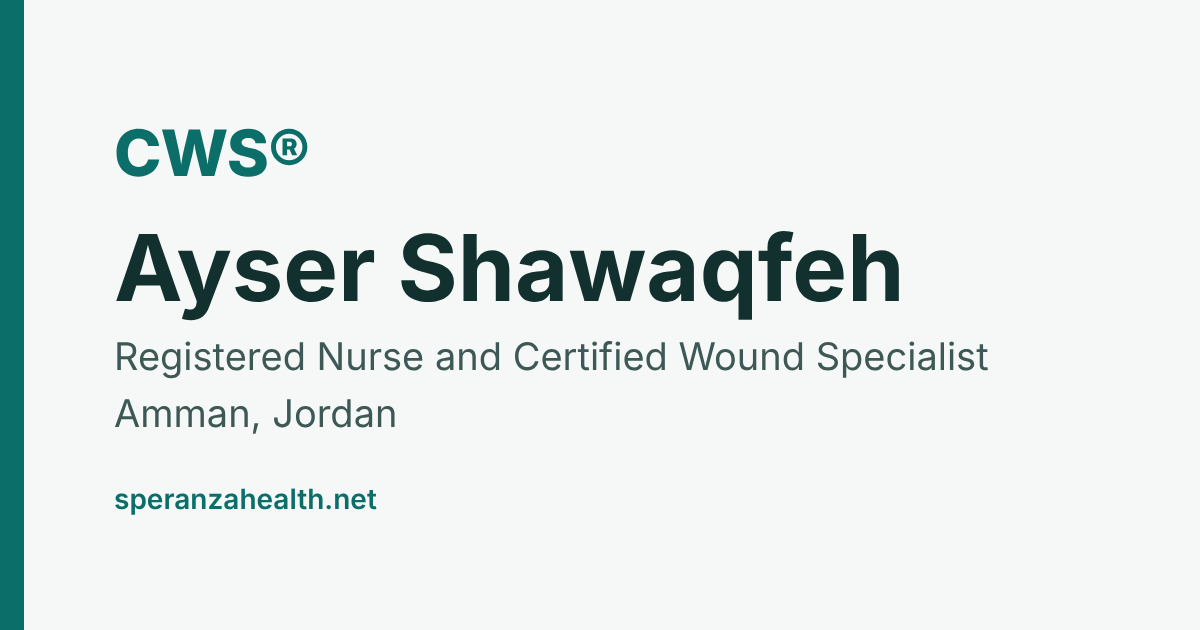
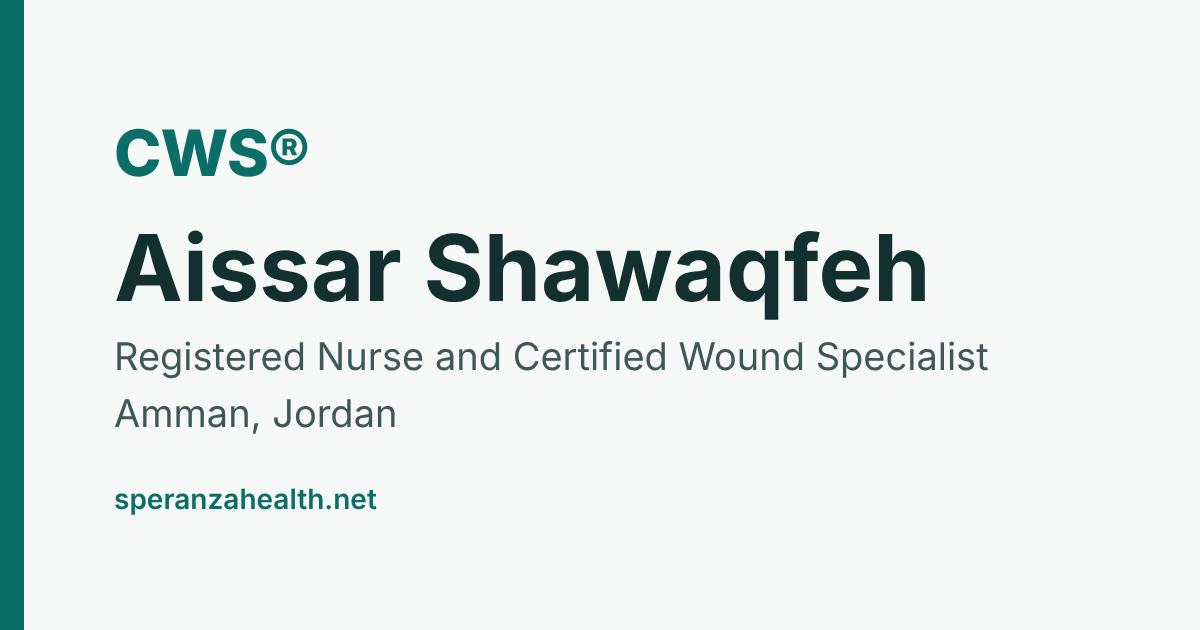
Rename public name to أيسر شواقفه / Aissar Shawaqfeh
About URL moves to /about-aissar-shawaqfeh/ with 301s from the old slug;
old spellings kept as schema alternateName; OG images regenerated.

Claude-Session: https://claude.ai/code/session_01QbTHbKSawVXTUVrHcNvsrh

Changed region(s): [[0.1233, 0.3619, 0.7708, 0.5127]]

diff --git a/src/config/site.ts b/src/config/site.ts
@@ -2,13 +2,13 @@
  * SINGLE SOURCE OF TRUTH for every professional and contact detail on the site.
  * Edit values here only — pages, footer, schema and contact links all read from this file.
  *
- * Items marked TODO are waiting for confirmation from Ayser. Do not replace a TODO with a
+ * Items marked TODO are waiting for confirmation from Aissar. Do not replace a TODO with a
  * guess: leave it null/false until the fact is confirmed and publishable.
  */
 
 export const site = {
   /** Brand / site name shown in titles and Open Graph. */
-  siteName: { ar: 'آيسر شواقفة', en: 'Ayser Shawaqfeh' },
+  siteName: { ar: 'أيسر شواقفه', en: 'Aissar Shawaqfeh' },
   /** Organisation the domain belongs to. Not emitted as Organization schema until confirmed (see flags). */
   brandName: 'Speranza Health',
   domain: 'speranzahealth.net',
@@ -19,18 +19,18 @@ export const site = {
 
 export const person = {
   /**
-   * Public display name. NOTE: the CWS certificate reads "AISSAR SHAWAQFEH".
-   * To switch the public spelling, change `name.en` AND `aboutSlug` below — redirects
-   * from the other spelling are generated automatically (see src/lib/routes.ts).
+   * Public display name (confirmed by Aissar 2026-10-06; English matches the CWS certificate).
+   * To change it, edit `name` AND `aboutSlug` below and move the old slug into
+   * `aboutSlugAliases` — 301 redirects from old URLs are generated automatically.
    */
-  name: { ar: 'آيسر شواقفة', en: 'Ayser Shawaqfeh' },
+  name: { ar: 'أيسر شواقفه', en: 'Aissar Shawaqfeh' },
   /** Spelling printed on the CWS® certificate (shown on the Credentials page for verification). */
   certificateName: 'AISSAR SHAWAQFEH',
   /** Every other spelling people use — emitted only as schema alternateName, never shown as the name. */
-  alternateNames: ['Aissar Shawaqfeh', 'آيسر شواقفة', 'Aysar Shawaqfeh', 'Aysar Shawagfeh', 'Aisar Shawaqfeh'],
-  aboutSlug: 'about-ayser-shawaqfeh',
+  alternateNames: ['Ayser Shawaqfeh', 'آيسر شواقفة', 'أيسر شواقفة', 'Aysar Shawaqfeh', 'Aysar Shawagfeh', 'Aisar Shawaqfeh'],
+  aboutSlug: 'about-aissar-shawaqfeh',
   /** Slugs of the other spelling that should 301 to aboutSlug. */
-  aboutSlugAliases: ['about-aissar-shawaqfeh', 'about-aysar-shawaqfeh', 'about'],
+  aboutSlugAliases: ['about-ayser-shawaqfeh', 'about-aysar-shawaqfeh', 'about'],
   postNominals: 'RN, CWS®',
   title: {
     ar: 'ممرض قانوني وأخصائي معتمد في العناية بالجروح CWS®',
@@ -69,7 +69,7 @@ export const credentials = [
     issuerUrl: 'https://abwmcertified.org/',
     year: 2026,
     category: 'certification',
-    /** Public directory where the credential can be checked. TODO: replace with Ayser's direct listing URL once confirmed. */
+    /** Public directory where the credential can be checked. TODO: replace with Aissar's direct listing URL once confirmed. */
     verifyUrl: 'https://abwmcertified.org/find-a-specialist/',
     clinical: true,
   },
@@ -109,7 +109,7 @@ export const credentials = [
   },
 ] as const;
 
-/** Nursing licence: publish only what Ayser approves. */
+/** Nursing licence: publish only what Aissar approves. */
 export const nursingLicence = {
   /** TODO: confirm licensing body wording and whether the licence year/number may be published. */
   body: { ar: 'مجلس التمريض الأردني / وزارة الصحة', en: 'Jordanian Nursing Council / Ministry of Health' },
@@ -153,7 +153,7 @@ export const profiles = [
 ] as const;
 
 /**
- * Decisions that unlock features. Keep false until Ayser confirms in writing.
+ * Decisions that unlock features. Keep false until Aissar confirms in writing.
  * - patientServicesConfirmed: a licensed pathway for direct patient services exists → enables
  *   "coordinate an assessment" CTAs.
  * - homeVisitsPage: enables /ar/home-wound-care-amman/ (not built in Phase 1).

diff --git a/src/lib/i18n.ts b/src/lib/i18n.ts
@@ -27,7 +27,7 @@ export const ui = {
     footerAbout: 'محتوى تثقيفي من ممرض قانوني وأخصائي معتمد في العناية بالجروح. لا يقدّم هذا الموقع تشخيصًا أو وصفات علاجية، ولا يُعد عيادة طبية.',
     rights: 'جميع الحقوق محفوظة',
     disclosureTitle: 'إفصاح مهني',
-    disclosure: 'يعمل آيسر شواقفة بصفة Key Account Specialist لخط العناية بالجروح في مستودع أدوية الوافي في الأردن. المحتوى على هذا الموقع تثقيفي ومستقل، ولا يوصي بعلامة تجارية بعينها، ويتم اختيار أي منتج لأي مريض بناءً على التقييم السريري وخطة الطبيب المعالج.',
+    disclosure: 'يعمل أيسر شواقفه بصفة Key Account Specialist لخط العناية بالجروح في مستودع أدوية الوافي في الأردن. المحتوى على هذا الموقع تثقيفي ومستقل، ولا يوصي بعلامة تجارية بعينها، ويتم اختيار أي منتج لأي مريض بناءً على التقييم السريري وخطة الطبيب المعالج.',
     consentText: 'نستخدم ملفات تعريف الارتباط للتحليلات فقط بعد موافقتك، لفهم كيفية استخدام الموقع. لا نجمع معلومات صحية.',
     consentAccept: 'موافق',
     consentDecline: 'رفض',
@@ -60,7 +60,7 @@ export const ui = {
     footerAbout: 'Educational content from a Registered Nurse and Certified Wound Specialist. This website does not provide diagnosis or prescriptions and is not a medical clinic.',
     rights: 'All rights reserved',
     disclosureTitle: 'Professional disclosure',
-    disclosure: 'Ayser Shawaqfeh works as a Key Account Specialist for the wound care line at Al-Wafi Drug Store in Jordan. Content on this website is educational and independent. It does not recommend a specific brand, and product choices for any patient follow clinical assessment and the treating physician’s plan.',
+    disclosure: 'Aissar Shawaqfeh works as a Key Account Specialist for the wound care line at Al-Wafi Drug Store in Jordan. Content on this website is educational and independent. It does not recommend a specific brand, and product choices for any patient follow clinical assessment and the treating physician’s plan.',
     consentText: 'We use analytics cookies only with your consent, to understand how the site is used. We never collect health information.',
     consentAccept: 'Accept',
     consentDecline: 'Decline',

diff --git a/src/lib/routes.ts b/src/lib/routes.ts
@@ -18,7 +18,7 @@ interface PageDef {
 
 export const pages: Record<PageKey, PageDef> = {
   home: { slug: '', nav: { ar: 'الرئيسية', en: 'Home' }, built: true, priority: 1.0 },
-  about: { slug: person.aboutSlug, nav: { ar: 'عن آيسر', en: 'About Ayser' }, built: true, priority: 0.9 },
+  about: { slug: person.aboutSlug, nav: { ar: 'عن أيسر', en: 'About Aissar' }, built: true, priority: 0.9 },
   credentials: { slug: 'credentials', nav: { ar: 'المؤهلات', en: 'Credentials' }, built: true, priority: 0.8 },
   chronic: { slug: 'chronic-wound-care-jordan', nav: { ar: 'الجروح المزمنة', en: 'Chronic wounds' }, built: true, priority: 0.9 },
   contact: { slug: 'contact', nav: { ar: 'التواصل', en: 'Contact' }, built: true, priority: 0.7 },

diff --git a/docs/IMPLEMENTATION_REPORT.md b/docs/IMPLEMENTATION_REPORT.md
@@ -1,6 +1,6 @@
 # Implementation report — Phase 1
 
-**Project:** Official website of Ayser Shawaqfeh, RN, CWS®, at speranzahealth.net
+**Project:** Official website of Aissar Shawaqfeh (أيسر شواقفه), RN, CWS®, at speranzahealth.net
 **Date:** 5 October 2026
 **Status:** Phase 1 complete, built and tested. Not yet deployed: hosting and DNS need your accounts.
 
@@ -23,7 +23,7 @@
 | Page | Arabic | English | Schema type |
 | --- | --- | --- | --- |
 | Home | `/ar/` | `/en/` | WebPage |
-| About Ayser Shawaqfeh | `/ar/about-ayser-shawaqfeh/` | `/en/about-ayser-shawaqfeh/` | ProfilePage → Person |
+| About Aissar Shawaqfeh | `/ar/about-aissar-shawaqfeh/` | `/en/about-aissar-shawaqfeh/` | ProfilePage → Person |
 | Credentials & verification | `/ar/credentials/` | `/en/credentials/` | AboutPage → Person |
 | Chronic wound care in Jordan | `/ar/chronic-wound-care-jordan/` | `/en/chronic-wound-care-jordan/` | MedicalWebPage |
 | Contact | `/ar/contact/` | `/en/contact/` | ContactPage |
@@ -47,7 +47,7 @@ The homepage title, H1 and meta description follow the project brief. The Englis
 ### Technical SEO
 - A unique title and meta description on every page, plus canonical, hreflang `ar-JO` / `en-JO` / `x-default`, Open Graph and Twitter tags, and 1200×630 sharing images in Arabic and English.
 - `sitemap.xml` with hreflang alternates, `robots.txt` and a custom 404.
-- 301 redirects in `_redirects` (Netlify/Cloudflare) and `vercel.json`, plus HTML fallbacks. These cover `/`, `/about/`, `/contact/` and the alternate About spellings (`about-aissar-shawaqfeh`, `about-aysar-shawaqfeh`).
+- 301 redirects in `_redirects` (Netlify/Cloudflare) and `vercel.json`, plus HTML fallbacks. These cover `/`, `/about/`, `/contact/` and the old and alternate About spellings (`about-ayser-shawaqfeh`, `about-aysar-shawaqfeh`).
 - Semantic HTML with one H1 per page, breadcrumbs (visible and in schema), and no thin placeholder pages: Phase 2 topics are listed without links until their pages exist.
 - Search Console verification and GA4 run on environment variables. GA4 is consent-gated: no requests and no cookies before *Accept*.
 
@@ -72,7 +72,7 @@ The homepage title, H1 and meta description follow the project brief. The Englis
 
 ## 4. Assumptions made
 
-1. **Public spelling "Ayser Shawaqfeh"**, as in the project brief, and it matches LinkedIn and Instagram. The certificate spelling "AISSAR SHAWAQFEH" appears on the Credentials page and in schema `alternateName`. Switching takes about 5 minutes (see README).
+1. **Public name: أيسر شواقفه / Aissar Shawaqfeh**, confirmed by Ayser on 6 October 2026 (the English spelling matches the CWS® certificate). Earlier spellings stay in schema `alternateName` only. LinkedIn and Instagram still use "ayser" in their URLs. Updating their display names to match is recommended (see the identity pack).
 2. **Patient services are off** (`patientServicesConfirmed: false`), because no licensed pathway has been confirmed yet. That means no home-visits page, no "book an assessment" CTA, and no LocalBusiness or Organization schema.
 3. **Contact details** (aissar@speranzahealth.net, +962 79 883 9394) were taken from Ayser's message of 5 October 2026.
 4. **Experience** is described as "about 9 years" and computed from the 2017 start year, so it updates automatically each year.
@@ -84,19 +84,18 @@ The homepage title, H1 and meta description follow the project brief. The Englis
 
 | # | Item | Where it goes |
 | --- | --- | --- |
-| 1 | Final public name spelling: Ayser or Aissar | `site.ts → person` |
-| 2 | Are direct patient services provided now? Through which licensed entity or licence? | `flags.patientServicesConfirmed`, `flags.homeVisitsPage` |
-| 3 | Is Speranza Health a registered organisation? | `flags.organizationConfirmed` |
-| 4 | Confirmed service areas beyond Amman | `contact.serviceAreas` |
-| 5 | Response hours | `contact.hours` |
-| 6 | Approved professional photo, plus a landscape photo | `person.photo`, About page, OG images |
-| 7 | Direct ABWM directory link for your listing | `credentials → cws.verifyUrl` |
-| 8 | Publishable nursing-licence wording (body, year) | `nursingLicence` |
-| 9 | Issuer of the Key Account Management certificate | `credentials → kam.issuer` |
-| 10 | YouTube channel URL | `profiles → youtube` (set `verified: true`) |
-| 11 | GA4 measurement ID and Search Console token | host environment variables |
-| 12 | Al-Wafi permission to be named, and to do outside clinical work | `i18n.ts → disclosure` |
-| 13 | Hosting account (Cloudflare Pages recommended) and DNS access for speranzahealth.net | deployment |
+| 1 | Are direct patient services provided now? Through which licensed entity or licence? | `flags.patientServicesConfirmed`, `flags.homeVisitsPage` |
+| 2 | Is Speranza Health a registered organisation? | `flags.organizationConfirmed` |
+| 3 | Confirmed service areas beyond Amman | `contact.serviceAreas` |
+| 4 | Response hours | `contact.hours` |
+| 5 | Approved professional photo, plus a landscape photo | `person.photo`, About page, OG images |
+| 6 | Direct ABWM directory link for your listing | `credentials → cws.verifyUrl` |
+| 7 | Publishable nursing-licence wording (body, year) | `nursingLicence` |
+| 8 | Issuer of the Key Account Management certificate | `credentials → kam.issuer` |
+| 9 | YouTube channel URL | `profiles → youtube` (set `verified: true`) |
+| 10 | GA4 measurement ID and Search Console token | host environment variables |
+| 11 | Al-Wafi permission to be named, and to do outside clinical work | `i18n.ts → disclosure` |
+| 12 | Hosting account (Cloudflare Pages recommended) and DNS access for speranzahealth.net | deployment |
 
 ## 6. Next: Phase 2 and Phase 3
 

diff --git a/docs/google-business-profile.md b/docs/google-business-profile.md
@@ -18,7 +18,7 @@ No profile has been created. Create one only after the eligibility checks below 
 
 Use your real-world name exactly as it appears on your documents, signage and invoices, with **no keywords**:
 
-- If Speranza Health is **not** a registered business: **Ayser Shawaqfeh** (or Aissar Shawaqfeh, if you switch the public spelling).
+- If Speranza Health is **not** a registered business: **Aissar Shawaqfeh** (Arabic: أيسر شواقفه).
 - If Speranza Health **is** a registered business with signage or invoices: **Speranza Health**.
 
 Never add words like "best wound specialist in Jordan" or "wound care Amman" to the name.
@@ -35,7 +35,7 @@ Do **not** choose Doctor, Physician or any physician specialty.
 
 ## 4. Description (Arabic, 750 characters max)
 
-> آيسر شواقفة ممرض قانوني وأخصائي معتمد في العناية بالجروح (CWS®) من American Board of Wound Management. يقدّم زيارات منزلية للعناية بالجروح في عمّان: الجروح المزمنة، قرح الضغط، جروح القدم السكري، الجروح الجراحية، ومتابعة العلاج بالضغط السلبي NPWT. يعمل بالتنسيق مع الطبيب المعالج، ويركز على التقييم المبني على الدليل وتعليم المريض والأسرة. يقدّم أيضًا تدريبًا للممرضين ومقدمي الرعاية. للحالات الطارئة يرجى التوجه إلى أقرب قسم طوارئ. Registered Nurse and Certified Wound Specialist offering home wound care visits in Amman, Jordan.
+> أيسر شواقفه ممرض قانوني وأخصائي معتمد في العناية بالجروح (CWS®) من American Board of Wound Management. يقدّم زيارات منزلية للعناية بالجروح في عمّان: الجروح المزمنة، قرح الضغط، جروح القدم السكري، الجروح الجراحية، ومتابعة العلاج بالضغط السلبي NPWT. يعمل بالتنسيق مع الطبيب المعالج، ويركز على التقييم المبني على الدليل وتعليم المريض والأسرة. يقدّم أيضًا تدريبًا للممرضين ومقدمي الرعاية. للحالات الطارئة يرجى التوجه إلى أقرب قسم طوارئ. Registered Nurse and Certified Wound Specialist offering home wound care visits in Amman, Jordan.
 
 ## 5. Other fields
 

diff --git a/README.md b/README.md
@@ -1,6 +1,6 @@
-# Ayser Shawaqfeh — official website (speranzahealth.net)
+# Aissar Shawaqfeh — official website (speranzahealth.net)
 
-Bilingual (Arabic-first, RTL / English, LTR) static website for **Ayser Shawaqfeh, RN, CWS®**, built with [Astro](https://astro.build). It outputs plain HTML/CSS with almost no JavaScript, so it is fast, cheap to host and easy for Google to read.
+Bilingual (Arabic-first, RTL / English, LTR) static website for **Aissar Shawaqfeh (أيسر شواقفه), RN, CWS®**, built with [Astro](https://astro.build). It outputs plain HTML/CSS with almost no JavaScript, so it is fast, cheap to host and easy for Google to read.
 
 ## Quick start
 
@@ -39,13 +39,11 @@ npm test             # build + internal link check + SEO/structured-data check
 
 In `profiles`, only entries with `verified: true` appear on the site and in schema `sameAs`. Set YouTube to `verified: true` once the channel exists.
 
-### Changing the public name spelling
+### Public name spelling
 
-The CWS® certificate reads **AISSAR SHAWAQFEH**; the site currently uses **Ayser Shawaqfeh** to match existing LinkedIn/Instagram profiles. To switch:
+Confirmed by Ayser on 6 October 2026: **أيسر شواقفه** (Arabic) and **Aissar Shawaqfeh** (English, matching the CWS® certificate). Older spellings (Ayser Shawaqfeh, آيسر شواقفة, …) are kept only in schema `alternateName`, and the old About URL `/…/about-ayser-shawaqfeh/` 301-redirects to `/…/about-aissar-shawaqfeh/`.
 
-1. In `src/config/site.ts` change `person.name.en`, `aboutSlug` (e.g. `about-aissar-shawaqfeh`) and move the old slug into `aboutSlugAliases`.
-2. Update `siteName.en` and the English titles/descriptions in `src/pages/[lang]/*.astro` (search for "Ayser").
-3. Run `npm test`. 301 redirects from the old About URL are generated automatically.
+To change the name again: edit `person.name`, `siteName` and `aboutSlug` in `src/config/site.ts`, move the old slug into `aboutSlugAliases`, search the page files for the old spelling, regenerate the OG images (`node scripts/make-og.mjs`) and run `npm test`.
 
 ## Adding a page (Phase 2)
 
